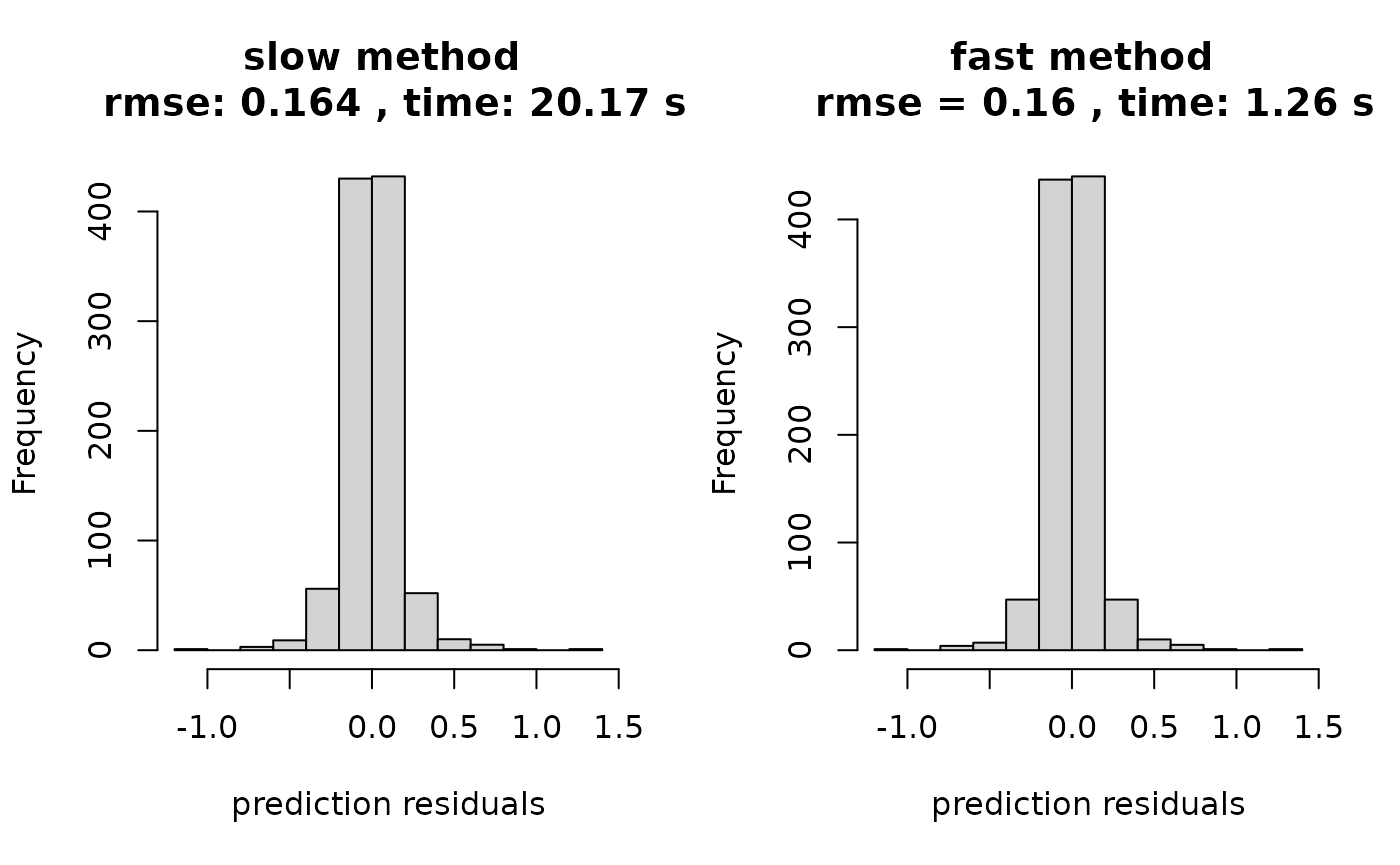
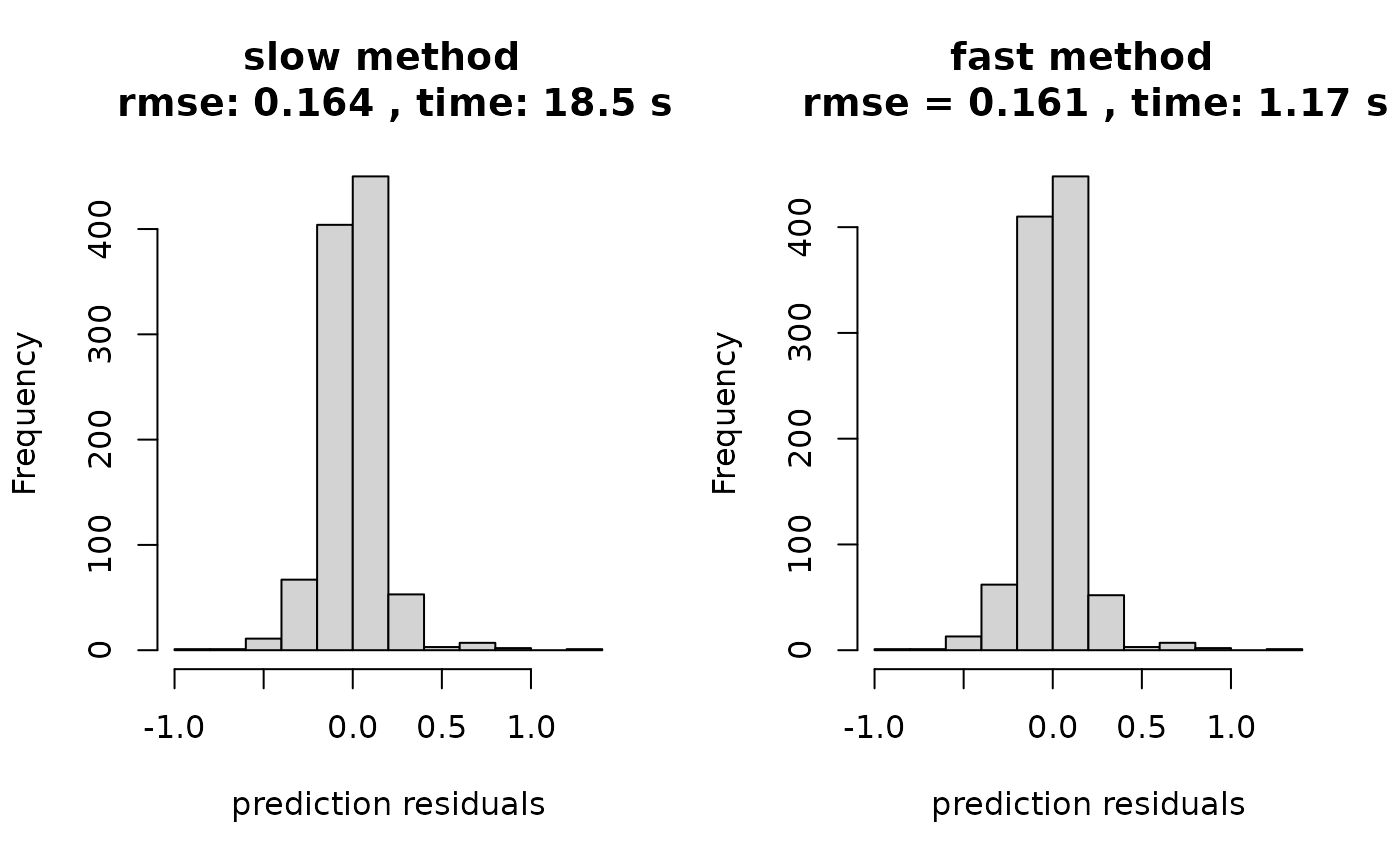
Built site for outerbase: 0.1.0@41575d3

diff --git a/articles/learning.html b/articles/learning.html
@@ -154,15 +154,15 @@
 <span class="va">coeff0</span> <span class="op">=</span> <span class="fu"><a href="https://rdrr.io/r/base/rep.html" class="external-link">rep</a></span><span class="op">(</span><span class="fl">0</span>,<span class="va">loglik</span><span class="op">$</span><span class="va">nterms</span><span class="op">)</span>
 <span class="va">loglik</span><span class="op">$</span><span class="fu">update</span><span class="op">(</span><span class="va">coeff0</span><span class="op">)</span> <span class="co"># update it to get gradients</span>
 <span class="va">loglik</span><span class="op">$</span><span class="va">val</span>
-<span class="co">#&gt; [1] -157.9181</span>
+<span class="co">#&gt; [1] -170.302</span>
 <span class="fu"><a href="https://rdrr.io/r/utils/head.html" class="external-link">head</a></span><span class="op">(</span><span class="va">loglik</span><span class="op">$</span><span class="va">grad</span><span class="op">)</span> <span class="co"># dim 60 for number of coeffients</span>
 <span class="co">#&gt;             [,1]</span>
-<span class="co">#&gt; [1,]  0.06298246</span>
-<span class="co">#&gt; [2,] -0.87377171</span>
-<span class="co">#&gt; [3,]  2.48540709</span>
-<span class="co">#&gt; [4,] -0.67689310</span>
-<span class="co">#&gt; [5,]  0.21366357</span>
-<span class="co">#&gt; [6,] -0.52262908</span></code></pre></div>
+<span class="co">#&gt; [1,] -0.16039611</span>
+<span class="co">#&gt; [2,]  3.92062723</span>
+<span class="co">#&gt; [3,] -0.07053718</span>
+<span class="co">#&gt; [4,] -0.15633036</span>
+<span class="co">#&gt; [5,] -1.93074778</span>
+<span class="co">#&gt; [6,]  0.07351618</span></code></pre></div>
 <p>A reasonable statistical model also needs prior on the coefficients. This tells us what distribution we expect on the coefficients.</p>
 <div class="sourceCode" id="cb10"><pre class="downlit sourceCode r">
 <code class="sourceCode R"><span class="va">logpr</span> <span class="op">=</span> <span class="fu">new</span><span class="op">(</span><span class="va">logpr_gauss</span>, <span class="va">om</span>, <span class="va">terms</span><span class="op">)</span></code></pre></div>
@@ -172,12 +172,12 @@
 <span class="va">para0</span> <span class="op">=</span> <span class="fu"><a href="../reference/getpara.html">getpara</a></span><span class="op">(</span><span class="va">logpdf</span><span class="op">)</span>
 <span class="va">para0</span>
 <span class="co">#&gt; noisescale coeffscale </span>
-<span class="co">#&gt;   3.114873   6.000000</span>
+<span class="co">#&gt;   2.833675   6.000000</span>
 <span class="va">para0</span><span class="op">[</span><span class="fl">2</span><span class="op">]</span> <span class="op">=</span> <span class="fl">4</span>
 <span class="va">logpdf</span><span class="op">$</span><span class="fu">updatepara</span><span class="op">(</span><span class="va">para0</span><span class="op">)</span>
 <span class="fu"><a href="../reference/getpara.html">getpara</a></span><span class="op">(</span><span class="va">logpdf</span><span class="op">)</span>
 <span class="co">#&gt; noisescale coeffscale </span>
-<span class="co">#&gt;   3.114873   4.000000</span></code></pre></div>
+<span class="co">#&gt;   2.833675   4.000000</span></code></pre></div>
 <p>The coefficients <code>coeff</code> are considered ancillary parameters that need to be optimized out (or something more sophisticated, hint on current research). For this class, it is easiest to do this via <code>lpdf$optnewton</code>, which takes a single Newton step to optimize the coefficients.</p>
 <div class="sourceCode" id="cb12"><pre class="downlit sourceCode r">
 <code class="sourceCode R"><span class="va">logpdf</span><span class="op">$</span><span class="fu">optnewton</span><span class="op">(</span><span class="op">)</span></code></pre></div>
@@ -207,17 +207,17 @@
 <div class="sourceCode" id="cb15"><pre class="downlit sourceCode r">
 <code class="sourceCode R"><span class="va">logpdf</span><span class="op">$</span><span class="fu">optnewton</span><span class="op">(</span><span class="op">)</span>
 <span class="va">logpdf</span><span class="op">$</span><span class="va">gradhyp</span>    <span class="co"># dim 6 for all hyperparameter</span>
-<span class="co">#&gt;            [,1]</span>
-<span class="co">#&gt; [1,] -1.8914809</span>
-<span class="co">#&gt; [2,]  0.1880586</span>
-<span class="co">#&gt; [3,]  7.4871016</span>
-<span class="co">#&gt; [4,]  0.7825691</span>
-<span class="co">#&gt; [5,]  8.0155396</span>
-<span class="co">#&gt; [6,]  0.8188095</span>
+<span class="co">#&gt;           [,1]</span>
+<span class="co">#&gt; [1,] 0.2707932</span>
+<span class="co">#&gt; [2,] 0.2934191</span>
+<span class="co">#&gt; [3,] 7.7737231</span>
+<span class="co">#&gt; [4,] 0.9170998</span>
+<span class="co">#&gt; [5,] 8.7837737</span>
+<span class="co">#&gt; [6,] 0.8851393</span>
 <span class="va">logpdf</span><span class="op">$</span><span class="va">gradpara</span>   <span class="co"># dim 2 since 2 parameters</span>
 <span class="co">#&gt;            [,1]</span>
-<span class="co">#&gt; [1,] -17.838563</span>
-<span class="co">#&gt; [2,]  -1.559564</span></code></pre></div>
+<span class="co">#&gt; [1,] -18.015040</span>
+<span class="co">#&gt; [2,]  -4.128491</span></code></pre></div>
 <p>This allows us to use custom functions to learn these hyperparameters to give maximum predictive power. The goal right now is a single point estimate of these hyperparameters. One has to be very careful to keep these in good ranges, and the call below will make sure to return <code>-inf</code> if there is a problem with the chosen hyperparameters.</p>
 <div class="sourceCode" id="cb16"><pre class="downlit sourceCode r">
 <code class="sourceCode R"><span class="va">totobj</span> <span class="op">=</span> <span class="kw">function</span><span class="op">(</span><span class="va">parlist</span><span class="op">)</span> <span class="op">{</span> <span class="co">#my optimization function for tuning</span>
@@ -239,67 +239,69 @@
 <code class="sourceCode R"><span class="va">parlist</span> <span class="op">=</span> <span class="fu"><a href="https://rdrr.io/r/base/list.html" class="external-link">list</a></span><span class="op">(</span>para <span class="op">=</span> <span class="fu"><a href="../reference/getpara.html">getpara</a></span><span class="op">(</span><span class="va">logpdf</span><span class="op">)</span>, hyp <span class="op">=</span> <span class="fu"><a href="../reference/gethyp.html">gethyp</a></span><span class="op">(</span><span class="va">om</span><span class="op">)</span><span class="op">)</span>
 <span class="fu">totobj</span><span class="op">(</span><span class="va">parlist</span><span class="op">)</span>
 <span class="co">#&gt; $val</span>
-<span class="co">#&gt; [1] 88.64726</span>
+<span class="co">#&gt; [1] 81.29338</span>
 <span class="co">#&gt; </span>
 <span class="co">#&gt; $gval</span>
 <span class="co">#&gt; $gval$para</span>
 <span class="co">#&gt;           [,1]</span>
-<span class="co">#&gt; [1,] 17.838563</span>
-<span class="co">#&gt; [2,]  1.059564</span>
+<span class="co">#&gt; [1,] 18.015040</span>
+<span class="co">#&gt; [2,]  3.628491</span>
 <span class="co">#&gt; </span>
 <span class="co">#&gt; $gval$hyp</span>
 <span class="co">#&gt;             [,1]</span>
-<span class="co">#&gt; [1,]  -3.4656620</span>
-<span class="co">#&gt; [2,]  -0.1880586</span>
-<span class="co">#&gt; [3,] -12.8442445</span>
-<span class="co">#&gt; [4,]  -0.7825691</span>
-<span class="co">#&gt; [5,] -13.3726825</span>
-<span class="co">#&gt; [6,]  -0.8188095</span>
+<span class="co">#&gt; [1,]  -5.6279360</span>
+<span class="co">#&gt; [2,]  -0.2934191</span>
+<span class="co">#&gt; [3,] -13.1308660</span>
+<span class="co">#&gt; [4,]  -0.9170998</span>
+<span class="co">#&gt; [5,] -14.1409165</span>
+<span class="co">#&gt; [6,]  -0.8851393</span>
 <span class="va">opth</span> <span class="op">=</span> <span class="fu"><a href="../reference/BFGS_std.html">BFGS_std</a></span><span class="op">(</span><span class="va">totobj</span>, <span class="va">parlist</span>, verbose<span class="op">=</span><span class="fl">3</span><span class="op">)</span> <span class="co">#</span>
 <span class="co">#&gt; </span>
 <span class="co">#&gt; ########started BFGS#######</span>
 <span class="co">#&gt;  iter.no obj.value wolfe.cond.1 wolfe.cond.2 learning.rate</span>
-<span class="co">#&gt;        0   88.6473           NA           NA           0.1</span>
+<span class="co">#&gt;        0   81.2934           NA           NA           0.1</span>
 <span class="co">#&gt;  iter.no obj.value wolfe.cond.1 wolfe.cond.2 learning.rate</span>
-<span class="co">#&gt;        1   86.0996     -2.54714     -45.7816           0.1</span>
+<span class="co">#&gt;        1    78.101     -3.19178     -44.7111           0.1</span>
 <span class="co">#&gt;  iter.no obj.value wolfe.cond.1 wolfe.cond.2 learning.rate</span>
-<span class="co">#&gt;        2   81.4334      -4.6657    -0.231404       0.50357</span>
+<span class="co">#&gt;        2   72.9212     -5.17932    -0.365126       0.50357</span>
 <span class="co">#&gt;  iter.no obj.value wolfe.cond.1 wolfe.cond.2 learning.rate</span>
-<span class="co">#&gt;        3   65.2067     -16.2244     -26.9059      0.539329</span>
+<span class="co">#&gt;        3   54.9313     -17.9873     -28.5224      0.539329</span>
 <span class="co">#&gt;  iter.no obj.value wolfe.cond.1 wolfe.cond.2 learning.rate</span>
-<span class="co">#&gt;        4   60.0244     -5.18159     -2.54652      0.573679</span>
+<span class="co">#&gt;        4    49.535     -5.39564     -3.50325      0.573679</span>
 <span class="co">#&gt;  iter.no obj.value wolfe.cond.1 wolfe.cond.2 learning.rate</span>
-<span class="co">#&gt;        5   50.3899     -9.63328     -6.43443      0.606459</span>
+<span class="co">#&gt;        5    41.522     -8.01189     -6.75999      0.606459</span>
 <span class="co">#&gt;  iter.no obj.value wolfe.cond.1 wolfe.cond.2 learning.rate</span>
-<span class="co">#&gt;        6   39.1815      -11.207     -10.5625      0.637561</span>
+<span class="co">#&gt;        6   32.5292     -8.99177     -4.81442      0.637561</span>
 <span class="co">#&gt;  iter.no obj.value wolfe.cond.1 wolfe.cond.2 learning.rate</span>
-<span class="co">#&gt;        7   35.3167     -3.86414     -5.56344      0.666913</span>
+<span class="co">#&gt;        7   25.3822      -7.1459      -8.8609      0.666913</span>
 <span class="co">#&gt;  iter.no obj.value wolfe.cond.1 wolfe.cond.2 learning.rate</span>
-<span class="co">#&gt;        8   34.8155    -0.501086     -3.52478      0.694484</span>
-<span class="co">#&gt; num iter: 9  obj start: 88.64726  obj end: 34.3146</span>
-<span class="co">#&gt; final learning rate: 0.7202715</span>
-<span class="co">#&gt; approx lower bound (not achieved): 32.99314</span>
+<span class="co">#&gt;        8   23.9013     -1.48053     -6.74046      0.694484</span>
+<span class="co">#&gt;  iter.no obj.value wolfe.cond.1 wolfe.cond.2 learning.rate</span>
+<span class="co">#&gt;        9   23.4517    -0.449443     -2.39941      0.720271</span>
+<span class="co">#&gt; num iter: 10  obj start: 81.29338  obj end: 23.2931</span>
+<span class="co">#&gt; final learning rate: 0.7442976</span>
+<span class="co">#&gt; approx lower bound (not achieved): 22.97849</span>
 <span class="co">#&gt; #########finished BFGS########</span></code></pre></div>
 <p>Then we just have to update out parameters and re-optimize, and we can check that we are at least must closer to stationary point.</p>
 <div class="sourceCode" id="cb18"><pre class="downlit sourceCode r">
 <code class="sourceCode R"><span class="fu">totobj</span><span class="op">(</span><span class="va">opth</span><span class="op">$</span><span class="va">par</span><span class="op">)</span>
 <span class="co">#&gt; $val</span>
-<span class="co">#&gt; [1] 34.3146</span>
+<span class="co">#&gt; [1] 23.2931</span>
 <span class="co">#&gt; </span>
 <span class="co">#&gt; $gval</span>
 <span class="co">#&gt; $gval$para</span>
 <span class="co">#&gt;            [,1]</span>
-<span class="co">#&gt; [1,] -0.9311632</span>
-<span class="co">#&gt; [2,] -0.1623044</span>
+<span class="co">#&gt; [1,] -0.7722822</span>
+<span class="co">#&gt; [2,] -0.4491662</span>
 <span class="co">#&gt; </span>
 <span class="co">#&gt; $gval$hyp</span>
 <span class="co">#&gt;            [,1]</span>
-<span class="co">#&gt; [1,] -0.8098683</span>
-<span class="co">#&gt; [2,] -0.2666485</span>
-<span class="co">#&gt; [3,] -1.5011037</span>
-<span class="co">#&gt; [4,] -0.5390726</span>
-<span class="co">#&gt; [5,] -0.6901071</span>
-<span class="co">#&gt; [6,]  0.1982655</span></code></pre></div>
+<span class="co">#&gt; [1,] -2.3408540</span>
+<span class="co">#&gt; [2,] -0.4241775</span>
+<span class="co">#&gt; [3,] -1.5021488</span>
+<span class="co">#&gt; [4,] -0.3756881</span>
+<span class="co">#&gt; [5,] -1.6582343</span>
+<span class="co">#&gt; [6,] -0.5299604</span></code></pre></div>
 <p>These steps can all be nicely wrapped up in another function <code><a href="../reference/BFGS_lpdf.html">?BFGS_lpdf</a></code>, which is a simpler call with the same result. Note because of some things not fully understood, these numbers will not match <em>exactly</em> above, but they will be quite close and functionally the same.</p>
 <div class="sourceCode" id="cb19"><pre class="downlit sourceCode r">
 <code class="sourceCode R"><span class="va">opth</span> <span class="op">=</span> <span class="fu"><a href="../reference/BFGS_lpdf.html">BFGS_lpdf</a></span><span class="op">(</span><span class="va">om</span>, <span class="va">logpdf</span>, 
@@ -308,26 +310,28 @@
 <span class="co">#&gt; </span>
 <span class="co">#&gt; ########started BFGS#######</span>
 <span class="co">#&gt;  iter.no obj.value wolfe.cond.1 wolfe.cond.2 learning.rate</span>
-<span class="co">#&gt;        0   88.6473           NA           NA           0.1</span>
+<span class="co">#&gt;        0   81.2934           NA           NA           0.1</span>
 <span class="co">#&gt;  iter.no obj.value wolfe.cond.1 wolfe.cond.2 learning.rate</span>
-<span class="co">#&gt;        1   86.0996     -2.54714     -45.7816           0.1</span>
+<span class="co">#&gt;        1    78.101     -3.19178     -44.7111           0.1</span>
 <span class="co">#&gt;  iter.no obj.value wolfe.cond.1 wolfe.cond.2 learning.rate</span>
-<span class="co">#&gt;        2   81.4334      -4.6657    -0.231404       0.50357</span>
+<span class="co">#&gt;        2   72.9212     -5.17932    -0.365126       0.50357</span>
 <span class="co">#&gt;  iter.no obj.value wolfe.cond.1 wolfe.cond.2 learning.rate</span>
-<span class="co">#&gt;        3   65.2067     -16.2244     -26.9059      0.539329</span>
+<span class="co">#&gt;        3   54.9313     -17.9873     -28.5224      0.539329</span>
 <span class="co">#&gt;  iter.no obj.value wolfe.cond.1 wolfe.cond.2 learning.rate</span>
-<span class="co">#&gt;        4   60.0244     -5.18159     -2.54652      0.573679</span>
+<span class="co">#&gt;        4    49.535     -5.39564     -3.50325      0.573679</span>
 <span class="co">#&gt;  iter.no obj.value wolfe.cond.1 wolfe.cond.2 learning.rate</span>
-<span class="co">#&gt;        5   50.3899     -9.63328     -6.43443      0.606459</span>
+<span class="co">#&gt;        5    41.522     -8.01189     -6.75999      0.606459</span>
 <span class="co">#&gt;  iter.no obj.value wolfe.cond.1 wolfe.cond.2 learning.rate</span>
-<span class="co">#&gt;        6   39.1815      -11.207     -10.5625      0.637561</span>
+<span class="co">#&gt;        6   32.5292     -8.99177     -4.81442      0.637561</span>
 <span class="co">#&gt;  iter.no obj.value wolfe.cond.1 wolfe.cond.2 learning.rate</span>
-<span class="co">#&gt;        7   35.3167     -3.86414     -5.56344      0.666913</span>
+<span class="co">#&gt;        7   25.3822      -7.1459      -8.8609      0.666913</span>
 <span class="co">#&gt;  iter.no obj.value wolfe.cond.1 wolfe.cond.2 learning.rate</span>
-<span class="co">#&gt;        8   34.8155    -0.501086     -3.52478      0.694484</span>
-<span class="co">#&gt; num iter: 9  obj start: 88.64726  obj end: 34.3146</span>
-<span class="co">#&gt; final learning rate: 0.7202715</span>
-<span class="co">#&gt; approx lower bound (not achieved): 32.99314</span>
+<span class="co">#&gt;        8   23.9013     -1.48053     -6.74046      0.694484</span>
+<span class="co">#&gt;  iter.no obj.value wolfe.cond.1 wolfe.cond.2 learning.rate</span>
+<span class="co">#&gt;        9   23.4517    -0.449443     -2.39941      0.720271</span>
+<span class="co">#&gt; num iter: 10  obj start: 81.29338  obj end: 23.2931</span>
+<span class="co">#&gt; final learning rate: 0.7442976</span>
+<span class="co">#&gt; approx lower bound (not achieved): 22.97849</span>
 <span class="co">#&gt; #########finished BFGS########</span></code></pre></div>
 <p>The revised predictions are then built after hyperparameter optimization where we find improved predictive accuracy in nearly every category. Here we can see a much better alignment between predictions and actual alongside a better plot of standardized residuals (more like a standard normal distribution).</p>
 <div class="sourceCode" id="cb20"><pre class="downlit sourceCode r">

diff --git a/articles/basebasics.html b/articles/basebasics.html
@@ -232,11 +232,11 @@
 <span class="fu"><a href="https://rdrr.io/r/utils/head.html" class="external-link">head</a></span><span class="op">(</span><span class="va">terms</span><span class="op">)</span>
 <span class="co">#&gt;      [,1] [,2] [,3]</span>
 <span class="co">#&gt; [1,]    0    0    0</span>
-<span class="co">#&gt; [2,]    1    0    0</span>
-<span class="co">#&gt; [3,]    0    0    1</span>
+<span class="co">#&gt; [2,]    0    0    1</span>
+<span class="co">#&gt; [3,]    1    0    0</span>
 <span class="co">#&gt; [4,]    0    1    0</span>
-<span class="co">#&gt; [5,]    1    1    0</span>
-<span class="co">#&gt; [6,]    1    0    1</span></code></pre></div>
+<span class="co">#&gt; [5,]    0    1    1</span>
+<span class="co">#&gt; [6,]    1    1    0</span></code></pre></div>
 <p><code>outermod$getvar</code> returns the vector of variances associated with these coefficients at these <code>terms</code>.</p>
 <div class="sourceCode" id="cb20"><pre class="downlit sourceCode r">
 <code class="sourceCode R"><span class="va">covcoeff</span> <span class="op">=</span> <span class="fu"><a href="https://rdrr.io/r/base/vector.html" class="external-link">as.vector</a></span><span class="op">(</span><span class="va">om</span><span class="op">$</span><span class="fu">getvar</span><span class="op">(</span><span class="va">terms</span><span class="op">)</span><span class="op">)</span></code></pre></div>
@@ -250,12 +250,12 @@
   <span class="va">ob</span><span class="op">$</span><span class="fu">getbase</span><span class="op">(</span><span class="fl">3</span><span class="op">)</span><span class="op">[</span>,<span class="va">terms</span><span class="op">[</span><span class="va">termno</span>,<span class="fl">3</span><span class="op">]</span><span class="op">+</span><span class="fl">1</span><span class="op">]</span>
 
 <span class="fu"><a href="https://rdrr.io/r/base/cbind.html" class="external-link">cbind</a></span><span class="op">(</span><span class="va">basevec</span><span class="op">[</span><span class="fl">1</span><span class="op">:</span><span class="fl">5</span><span class="op">]</span>,<span class="va">basismat</span><span class="op">[</span><span class="fl">1</span><span class="op">:</span><span class="fl">5</span>,<span class="fl">5</span><span class="op">]</span><span class="op">)</span> <span class="co"># expect equal</span>
-<span class="co">#&gt;            [,1]       [,2]</span>
-<span class="co">#&gt; [1,]  0.2667642  0.2667642</span>
-<span class="co">#&gt; [2,] -1.3287883 -1.3287883</span>
-<span class="co">#&gt; [3,]  2.0756653  2.0756653</span>
-<span class="co">#&gt; [4,]  0.9756641  0.9756641</span>
-<span class="co">#&gt; [5,] -1.6229195 -1.6229195</span></code></pre></div>
+<span class="co">#&gt;             [,1]        [,2]</span>
+<span class="co">#&gt; [1,]  0.68869591  0.68869591</span>
+<span class="co">#&gt; [2,] -0.07080254 -0.07080254</span>
+<span class="co">#&gt; [3,]  0.95224625  0.95224625</span>
+<span class="co">#&gt; [4,] -1.46478135 -1.46478135</span>
+<span class="co">#&gt; [5,]  0.04049818  0.04049818</span></code></pre></div>
 </div>
 </div>
 <div class="section level2">
@@ -268,18 +268,18 @@
 
 <span class="fu"><a href="https://rdrr.io/r/base/print.html" class="external-link">print</a></span><span class="op">(</span><span class="fu"><a href="https://rdrr.io/r/base/Round.html" class="external-link">round</a></span><span class="op">(</span><span class="va">cormattot</span><span class="op">[</span><span class="fl">1</span><span class="op">:</span><span class="fl">5</span>,<span class="fl">1</span><span class="op">:</span><span class="fl">5</span><span class="op">]</span>,<span class="fl">3</span><span class="op">)</span><span class="op">)</span> <span class="co"># typical gp</span>
 <span class="co">#&gt;       [,1]  [,2]  [,3]  [,4]  [,5]</span>
-<span class="co">#&gt; [1,] 1.000 0.871 0.744 0.871 0.352</span>
-<span class="co">#&gt; [2,] 0.871 1.000 0.580 0.791 0.554</span>
-<span class="co">#&gt; [3,] 0.744 0.580 1.000 0.899 0.296</span>
-<span class="co">#&gt; [4,] 0.871 0.791 0.899 1.000 0.456</span>
-<span class="co">#&gt; [5,] 0.352 0.554 0.296 0.456 1.000</span>
+<span class="co">#&gt; [1,] 1.000 0.677 0.988 0.477 0.852</span>
+<span class="co">#&gt; [2,] 0.677 1.000 0.650 0.523 0.848</span>
+<span class="co">#&gt; [3,] 0.988 0.650 1.000 0.513 0.867</span>
+<span class="co">#&gt; [4,] 0.477 0.523 0.513 1.000 0.692</span>
+<span class="co">#&gt; [5,] 0.852 0.848 0.867 0.692 1.000</span>
 <span class="fu"><a href="https://rdrr.io/r/base/print.html" class="external-link">print</a></span><span class="op">(</span><span class="fu"><a href="https://rdrr.io/r/base/Round.html" class="external-link">round</a></span><span class="op">(</span><span class="va">cormatob</span><span class="op">[</span><span class="fl">1</span><span class="op">:</span><span class="fl">5</span>,<span class="fl">1</span><span class="op">:</span><span class="fl">5</span><span class="op">]</span>,<span class="fl">3</span><span class="op">)</span><span class="op">)</span> <span class="co"># outerbase</span>
 <span class="co">#&gt;       [,1]  [,2]  [,3]  [,4]  [,5]</span>
-<span class="co">#&gt; [1,] 0.999 0.871 0.744 0.871 0.352</span>
-<span class="co">#&gt; [2,] 0.871 1.000 0.580 0.791 0.554</span>
-<span class="co">#&gt; [3,] 0.744 0.580 1.000 0.899 0.296</span>
-<span class="co">#&gt; [4,] 0.871 0.791 0.899 1.000 0.456</span>
-<span class="co">#&gt; [5,] 0.352 0.554 0.296 0.456 1.000</span></code></pre></div>
+<span class="co">#&gt; [1,] 1.000 0.677 0.988 0.477 0.852</span>
+<span class="co">#&gt; [2,] 0.677 1.000 0.650 0.523 0.848</span>
+<span class="co">#&gt; [3,] 0.988 0.650 1.000 0.513 0.867</span>
+<span class="co">#&gt; [4,] 0.477 0.523 0.513 1.000 0.692</span>
+<span class="co">#&gt; [5,] 0.852 0.848 0.867 0.692 1.000</span></code></pre></div>
 <p>They means that we can leverage <a href="https://en.wikipedia.org/wiki/Bayesian_linear_regression" class="external-link">Bayesian linear regression</a> to do prediction. This will require assuming that there is some <code>noisevar</code>, which is also called the nugget in the Gaussian process literature.</p>
 <div class="sourceCode" id="cb23"><pre class="downlit sourceCode r">
 <code class="sourceCode R"><span class="va">noisevar</span> <span class="op">=</span> <span class="fl">10</span><span class="op">^</span><span class="op">(</span><span class="op">-</span><span class="fl">4</span><span class="op">)</span>

diff --git a/articles/gettingstarted.html b/articles/gettingstarted.html
@@ -144,16 +144,16 @@
 <span class="va">obmodel</span> <span class="op">=</span> <span class="fu"><a href="../reference/obfit.html">obfit</a></span><span class="op">(</span><span class="va">x</span>, <span class="va">y</span>, numb<span class="op">=</span><span class="fl">300</span>, covnames<span class="op">=</span><span class="fu"><a href="https://rdrr.io/r/base/rep.html" class="external-link">rep</a></span><span class="op">(</span><span class="st">"mat25pow"</span>,<span class="fl">8</span><span class="op">)</span><span class="op">)</span> 
 <span class="fu"><a href="https://rdrr.io/r/base/print.html" class="external-link">print</a></span><span class="op">(</span><span class="op">(</span><span class="fu"><a href="https://rdrr.io/r/base/proc.time.html" class="external-link">proc.time</a></span><span class="op">(</span><span class="op">)</span> <span class="op">-</span> <span class="va">ptm</span><span class="op">)</span><span class="op">[</span><span class="fl">3</span><span class="op">]</span><span class="op">)</span>
 <span class="co">#&gt; elapsed </span>
-<span class="co">#&gt;   0.774</span></code></pre></div>
-<p>Note that by changing threads to match the computer, we can adjust how processing is done. The default is to grab all available threads. Below we reduce ourselves to a single thread, which should slow things down.</p>
+<span class="co">#&gt;   0.796</span></code></pre></div>
+<p>Note that the package is made using custom parallelization at the linear-algebra level. The package relies on <code>omp</code> for parallelization, so if the package was not compiled with that in place there will be no benefits. The default call of <code>obfit</code> grabs all available threads, which is ideal for desktops/laptops. It might be less ideal for large clusters where the CPU might be shared.</p>
+<p>We can adjust the number of threads manually. Below we reduce ourselves to a single thread, which should slow things down.</p>
 <div class="sourceCode" id="cb6"><pre class="downlit sourceCode r">
 <code class="sourceCode R"><span class="va">ptm</span> <span class="op">=</span> <span class="fu"><a href="https://rdrr.io/r/base/proc.time.html" class="external-link">proc.time</a></span><span class="op">(</span><span class="op">)</span>
 <span class="va">obmodel</span> <span class="op">=</span> <span class="fu"><a href="../reference/obfit.html">obfit</a></span><span class="op">(</span><span class="va">x</span>, <span class="va">y</span>, numb<span class="op">=</span><span class="fl">300</span>, covnames<span class="op">=</span><span class="fu"><a href="https://rdrr.io/r/base/rep.html" class="external-link">rep</a></span><span class="op">(</span><span class="st">"mat25pow"</span>,<span class="fl">8</span><span class="op">)</span>,
                 nthreads<span class="op">=</span><span class="fl">1</span><span class="op">)</span> <span class="co">#optional input</span>
 <span class="fu"><a href="https://rdrr.io/r/base/print.html" class="external-link">print</a></span><span class="op">(</span><span class="op">(</span><span class="fu"><a href="https://rdrr.io/r/base/proc.time.html" class="external-link">proc.time</a></span><span class="op">(</span><span class="op">)</span> <span class="op">-</span> <span class="va">ptm</span><span class="op">)</span><span class="op">[</span><span class="fl">3</span><span class="op">]</span><span class="op">)</span>
 <span class="co">#&gt; elapsed </span>
-<span class="co">#&gt;   1.345</span></code></pre></div>
-<p>Note that the package relies on <code>omp</code> for parallelization, so if the package was not compiled with that in place there will be no benefits.</p>
+<span class="co">#&gt;   1.373</span></code></pre></div>
 <p>We can then predict using <code><a href="../reference/obpred.html">?obpred</a></code>. While it is not an exact interpolator, it is close.</p>
 <div class="sourceCode" id="cb7"><pre class="downlit sourceCode r">
 <code class="sourceCode R"><span class="va">predtr</span> <span class="op">=</span> <span class="fu"><a href="../reference/obpred.html">obpred</a></span><span class="op">(</span><span class="va">obmodel</span>, <span class="va">x</span><span class="op">)</span>

diff --git a/articles/speed.html b/articles/speed.html
@@ -165,7 +165,7 @@
 <span class="va">yhat_slow</span> <span class="op">=</span> <span class="fu"><a href="https://rdrr.io/r/base/vector.html" class="external-link">as.vector</a></span><span class="op">(</span><span class="va">pred_slow</span><span class="op">$</span><span class="fu">mean</span><span class="op">(</span><span class="op">)</span><span class="op">)</span>
 <span class="fu"><a href="https://rdrr.io/r/base/print.html" class="external-link">print</a></span><span class="op">(</span><span class="va">t_slow</span><span class="op">)</span>
 <span class="co">#&gt;    user  system elapsed </span>
-<span class="co">#&gt;  20.913   0.023  20.171</span></code></pre></div>
+<span class="co">#&gt;  19.179   0.008  18.500</span></code></pre></div>
 <div class="sourceCode" id="cb15"><pre class="downlit sourceCode r">
 <code class="sourceCode R"><span class="va">ptm</span> <span class="op">=</span> <span class="fu"><a href="https://rdrr.io/r/base/proc.time.html" class="external-link">proc.time</a></span><span class="op">(</span><span class="op">)</span>
 <span class="va">opth</span> <span class="op">=</span> <span class="fu"><a href="../reference/BFGS_lpdf.html">BFGS_lpdf</a></span><span class="op">(</span><span class="va">om</span>, <span class="va">logpdf_fast</span>, 
@@ -176,7 +176,7 @@
 <span class="va">yhat_fast</span> <span class="op">=</span> <span class="fu"><a href="https://rdrr.io/r/base/vector.html" class="external-link">as.vector</a></span><span class="op">(</span><span class="va">pred_fast</span><span class="op">$</span><span class="fu">mean</span><span class="op">(</span><span class="op">)</span><span class="op">)</span>
 <span class="fu"><a href="https://rdrr.io/r/base/print.html" class="external-link">print</a></span><span class="op">(</span><span class="va">t_fast</span><span class="op">)</span>
 <span class="co">#&gt;    user  system elapsed </span>
-<span class="co">#&gt;   1.948   0.084   1.259</span></code></pre></div>
+<span class="co">#&gt;   1.769   0.069   1.170</span></code></pre></div>
 </div>
 <div class="section level2">
 <h2 id="comparison-of-results">Comparison of results<a class="anchor" aria-label="anchor" href="#comparison-of-results"></a>

diff --git a/reference/predictor.html b/reference/predictor.html
@@ -85,7 +85,7 @@ package, it is meant to be directly used.</p>
     
 
 <dl><dt><code>predictor$update(x)</code></dt>
-<dd><p>update the current input to `x` for prediction</p></dd>
+<dd><p>update the current input to <code>x</code> for prediction</p></dd>
 
 
 <dt><code>predictor$mean()</code></dt>
@@ -94,6 +94,11 @@ package, it is meant to be directly used.</p>
 
 <dt><code>predictor$var()</code></dt>
 <dd><p>return the vector of variances for the prediction</p></dd>
+
+
+<dt><code>predictor$setnthreads(k)</code></dt>
+<dd><p>specifics <code>k</code> as the number of threads
+to use</p></dd>
 
 
 </dl></div>
